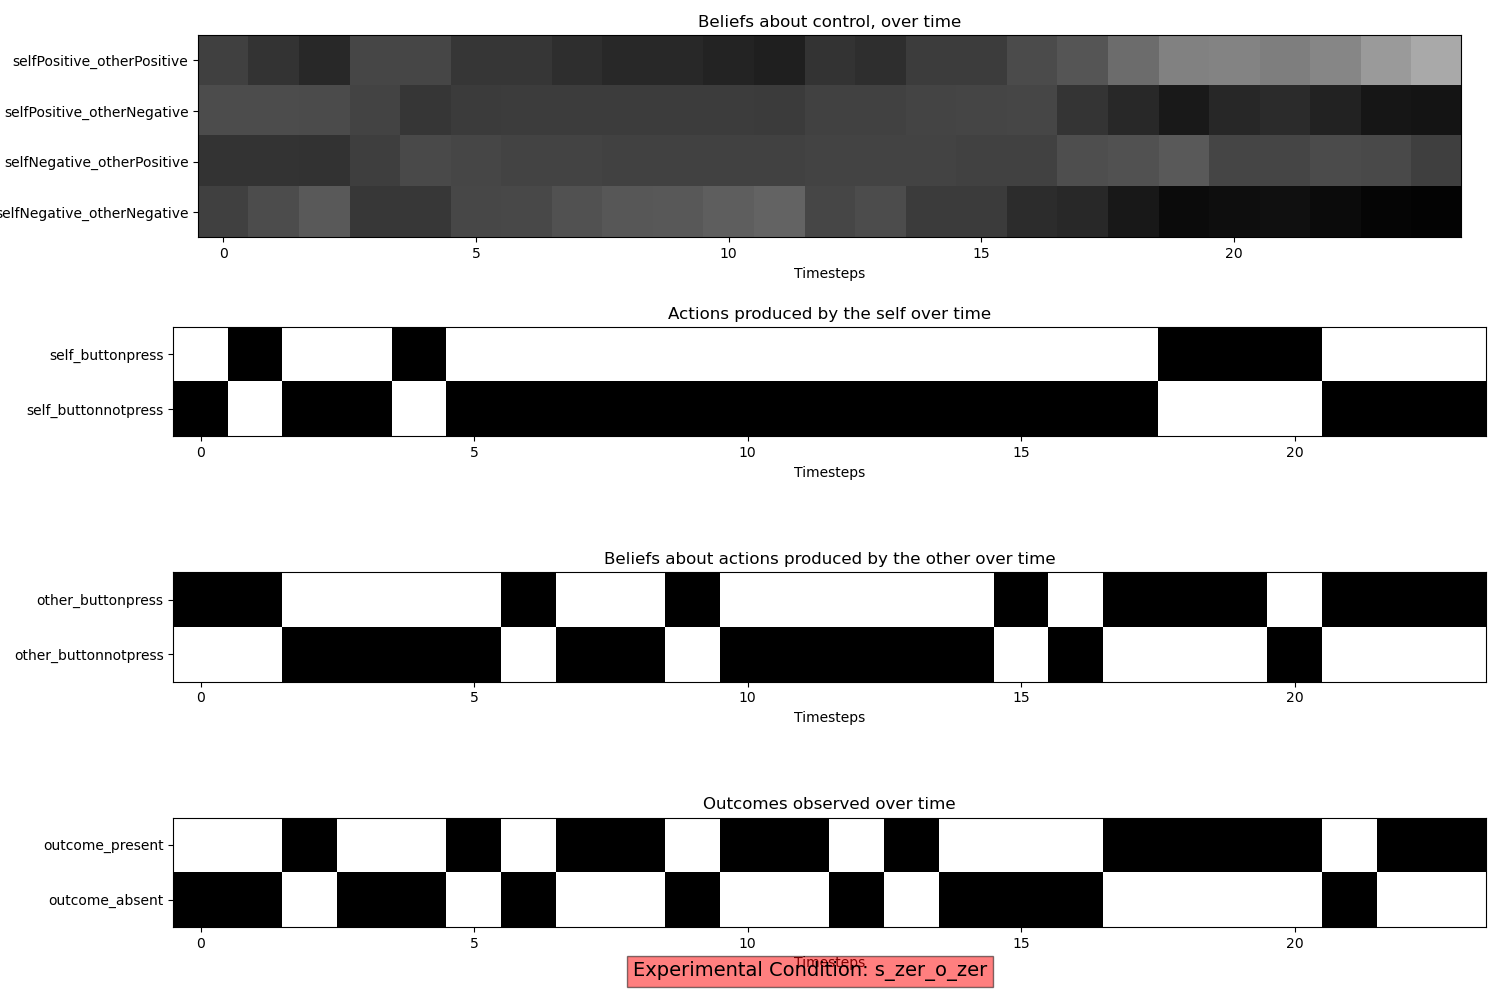
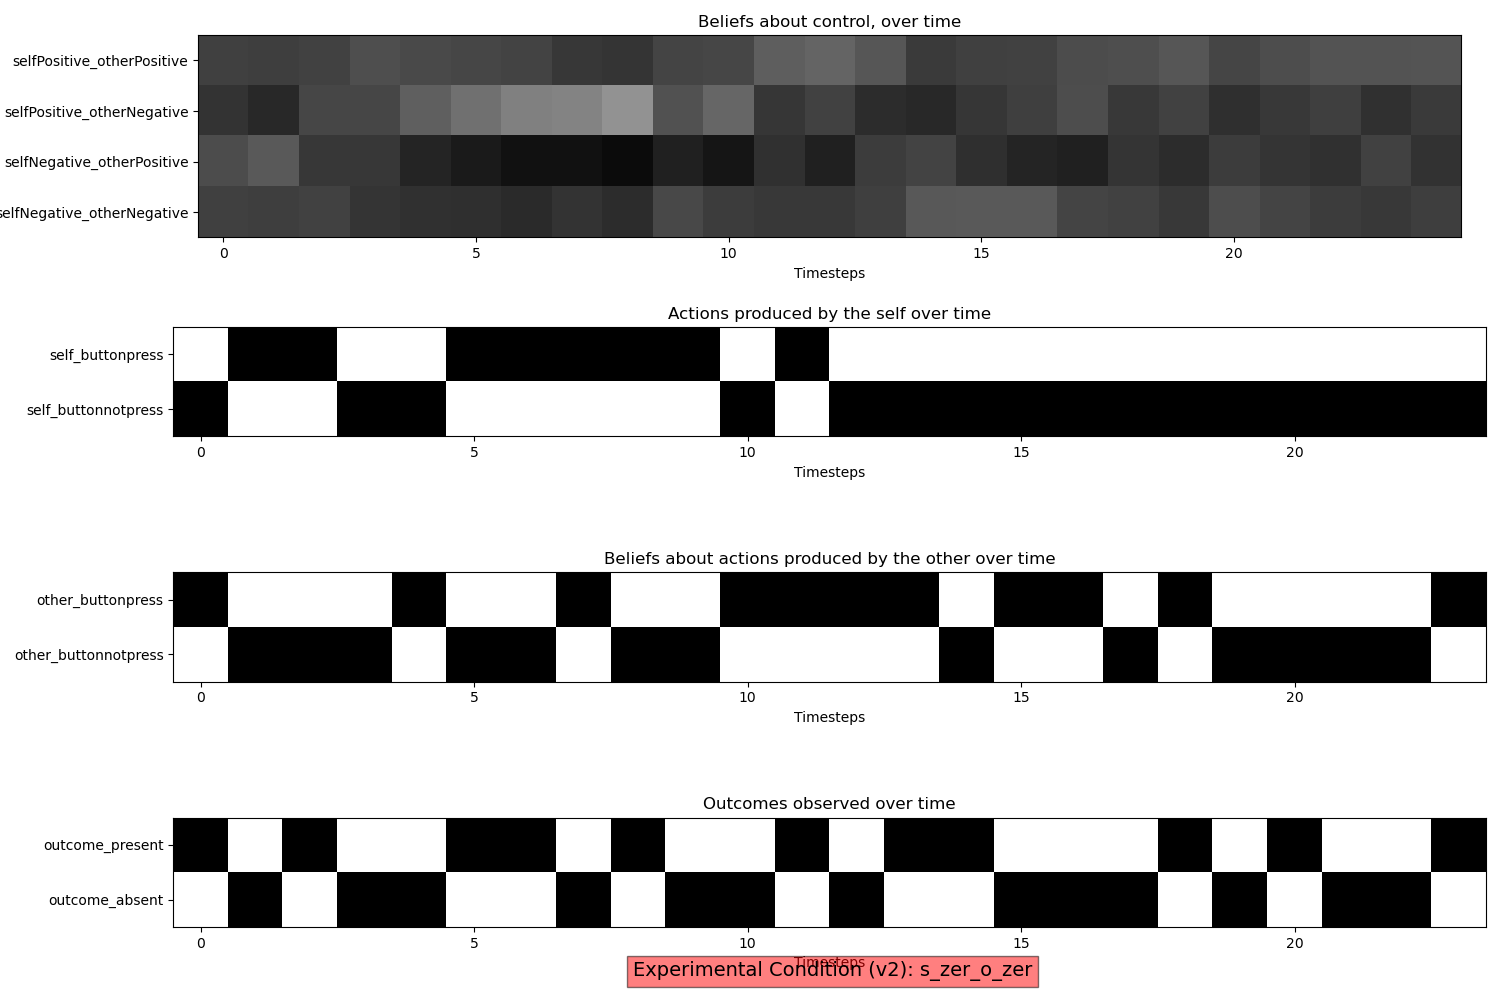
Experiment 2024-03-23-11-38-56

diff --git a/agency_twoagents_v2.py b/agency_twoagents_v2.py
@@ -358,7 +358,7 @@ def run_active_inference_loop(my_agent, my_env, T, verbose) -> dict:
     
     for t in range(T):
         
-        q_pi, efe = my_agent.infer_policies(gamma = 16.0)
+        q_pi, efe = my_agent.infer_policies_factorized()
         # q_pi, efe = my_agent.infer_policies(gamma = 100.0)
 
         chosen_action_id = my_agent.sample_action()
@@ -484,29 +484,29 @@ def evaluate_p_self_action(log):
 
 ##################### TESTING #####################
 
-# p_outcome_env = 1.0
-# p_other_action_env = 0.5
-# habit_press = 10
-# expcondition = "s_zer_o_zer"
-# #  "s_zer_o_neg", "s_neg_o_zer", "s_zer_o_zer", "s_pos_o_zer", "s_zer_o_pos"
+p_outcome_env = 1.0
+p_other_action_env = 0.5
+habit_press = 10
+expcondition = "s_zer_o_zer"
+#  "s_zer_o_neg", "s_neg_o_zer", "s_zer_o_zer", "s_pos_o_zer", "s_zer_o_pos"
 
-# env = AgencyTask(expcondition = expcondition, p_other_action_env = p_other_action_env, p_outcome_env = p_outcome_env)
+env = AgencyTask(expcondition = expcondition, p_other_action_env = p_other_action_env, p_outcome_env = p_outcome_env)
 
-# T = 25
+T = 25
 
-# A,A_factor_list,pA = create_A(p_outcome = 0.6)
-# B = create_B()
-# C = create_C(outcomepref = 5.0, actionpref = 0.0, noactionpref = 1.0)
-# D = create_D()
-# E = create_E(habit_press)
-# my_agent = Agent(A=A, B=B, C=C, D=D, E=E, A_factor_list=A_factor_list,
-#                  pA=pA, control_fac_idx=controllable_indices,
-#                  modalities_to_learn=learnable_modalities,
-#                  lr_pA=1.0, use_param_info_gain=True)
+A,A_factor_list,pA = create_A(p_outcome = 0.6)
+B = create_B()
+C = create_C(outcomepref = 5.0, actionpref = 0.0, noactionpref = 1.0)
+D = create_D()
+E = create_E(habit_press)
+my_agent = Agent(A=A, B=B, C=C, D=D, E=E, A_factor_list=A_factor_list,
+                 pA=pA, control_fac_idx=controllable_indices,
+                 modalities_to_learn=learnable_modalities,
+                 lr_pA=1.0, use_param_info_gain=True)
 
-# log = run_active_inference_loop(my_agent, env, T = T, verbose = False)
+log = run_active_inference_loop(my_agent, env, T = T, verbose = False)
 
-# plot_all_choices_beliefs(log, env, savefig = 1, fig_file_name = "test.png")
+plot_all_choices_beliefs(log, env, savefig = 1, fig_file_name = "test.png")
 
 
 ##################### STORAGE #####################
